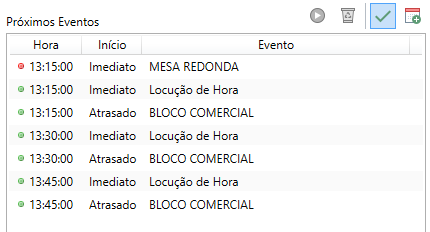
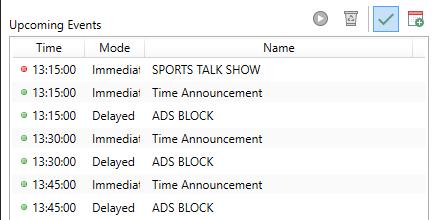
Seção 'Scheduling an radio show with priorities'

Changed region(s): [[0.0, 0.0, 0.9977, 1.0]]

diff --git a/Docs/Getting Started.md b/Docs/Getting Started.md
@@ -190,29 +190,29 @@ This option is very interesting for radio stations that have different music pla
 
 Note that there are also special event types such as **Start Playback** and **Stop Playback**. These events simulate a click on the **Play** and **Stop** buttons, respectively, so you can schedule when to start or stop the player, further automating your control over your radio's schedules.
 
-# Agendar um programa utilizando as prioridades
+# Scheduling an radio show with priorities
 
-Para agendar um programa de rádio já gravado, basta utilizar a mesma forma que se utiliza para agendar um arquivo de áudio normal. Vamos dizer que nós queiramos agendar um programa de esportes que dure de 13:15 a 14:15. 
+To schedule an already recorded radio show, just use the same way as to schedule a normal audio file. Let's say we want to schedule a sports program that runs from 1:15 pm to 2:15 pm.
 
-No nosso exemplo de blocos comerciais de 15 em 15 minutos, poderiamos utilizar a ordenação para este ser o primeiro evento a ser disparado, mas ainda assim, os outros eventos de comerciais ainda ficariam acumulados, prejudicando o restante da programação.
+In our example of ads blocks every 15 minutes, we could use ordering for our show to be the first event to be triggered, but the other events would still accumulate, causing problems in our schedule.
 
-Para lidar com essa situação comum que pode acontecer na sua rádio, temos a opção de prioridades. Perceba que nos eventos que agendamos até aqui, todos eles, na parte de **Ordenação e Prioridade**, vem como padrão com a **Prioridade Baixa**. Podemos então pegar o nosso programa de esportes e marcar como **Prioridade Alta**.
+To deal with this situation that can happen on your radio, we have the priority option. Note that in the events we have scheduled so far, all of them, in the **Order and Priority** part, default to **Low Priority**. We can then take our sports program and mark it as **High Priority**.
 
 <p align="center">
 	<img src="Images/EventHighPriority.png" alt="Prioridade Alta do Evento"/>
 </p>
 
-Dessa forma, todos os eventos que "concorrem" com ele pelo horário serão descartados enquanto ele estiver tocando, sem que você precise criar outra grade de eventos alternativa para encaixar o seu programa.
+That way, all the others events that share the same time will be discarded while our show it's playing, without you having to create an alternative event schedule list to deal with this situation.
 
 <p align="center">
 	<img src="Images/UpcomingEventPriority.png" alt="Próximos Eventos com Prioridade Alta"/>
 </p>
 
-Com a opção de Prioridade Alta marcada, o nosso programa de Mesa Redonda muda seu ícone de **verde para vermelho** na grade de Próximos Eventos. Isso significa que enquanto este estiver sendo reproduzido pelo player, **todos os eventos posteriores (os marcados pela caixa vermelha e outros que possam surgir quando virar a hora) serão descartados enquanto o programa estiver tocando.**
+With the High Priority option checked, our Sports Talk Show changes its icon from **green to red** in the Upcoming Events list. This means that while it is being played, **all later events (those marked by the red box and others that may appear when the time is turned) will be discarded.**
 
-Note o seguinte, a primeira Locução de Hora das 13:15 ainda tocará e logo em seguida o nosso programa de Mesa Redonda. Isto ocorre pelo seguinte: a ordenação da grade de eventos primeiro vem pelo **Horário**, logo em seguida se o evento é **Imediato ou Atrasado**, com prioridade para os Imediatos, e finalmente pela opção de **Ordenação**. 
+As you can imagine, the first 1:15 pm Time Announcement will still play and soon after our talk show. This is due to the following: the sorting of the event grid first comes by **Time**, then if the event is **Immediate or Delayed**, with priority for Immediate, and finally by the option of **Queue order**.
 
-Neste caso, se quisermos que nem mesmo a Locução de Hora toque, basta tornar a Mesa Redonda também Imediato e modificar a sua ordenação para ser menor do que a Locução de Hora.
+In this case, if we don't want even the Time Announcement to play, just make the talk show also Immediate and modify its ordering to be smaller than the Time Announcement, as we did before with the ads.
 
 <p align="center">
 	<img src="Images/UpcomingEventPriority2.png" alt="Próximos Eventos com Prioridade Alta"/>
